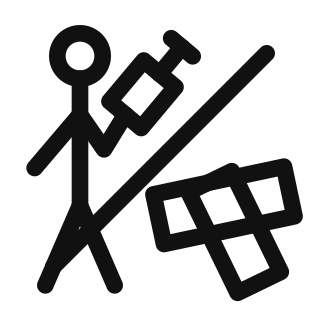
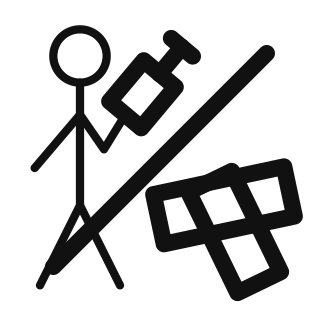
piktogrammene: mennesket får halve streken, tingene beholder sin
Menneskefigurene på «før du begynner»-siden var tegnet i samme 1,25 enheter
som alt annet i ikonsettet. På en strekmann er det for mye: streken ER
kroppen, og hodet gikk nesten igjen i seg selv.

Målt i IKEAs egen anvisning til MYDAL køyeseng (AA-2207941-1, side 2, 600
dpi, kontrollert mot PDF-ens egne w-operatorer): strek 17 px = 2,0 pt,
hodediameter 293 px, figurhøyde 1091 px = 46 mm. Streken er 5,8 % av hodet
- 1:17 - mot vår 1:3,7.

Målingen viser også det motsatte av det man tror: IKEA-mannen har den
tykkeste streken i hele dokumentet bortsett fra nei-krysset, og verktøyene
deres er halvparten av ham. Han leser likevel lett fordi han er en KONTUR
rundt en hvit kropp i 46 mm. Vår er en strekmann i 16 mm. Derfor er det bare
figuren som tynnes her, og verktøy, deler og piler som blir stående.

Hele veien til 1:17 går ikke - 0,22 mm strekmann blir grå, og den gråner
allerede ved 0,4 enheter i de 72 px Markdown-manualen setter ikonet i.
Halve piktogramstreken er det tynneste som er svart i begge medier, og tar
figuren til 1:7,4.

Vekten står ett sted (FIGURE_STROKE). Ikonfila sier bare hva som er figur -
class="figur" på gruppen - og merket i en vendoret Lucide-fil stopper
bygget. De fire figurene er samtidig tegnet om til samme skjelett: hode
r=2, hals som starter på hodets sirkel, skulder i 8,6, bein som spriker 0,5
per enhet. Hodet ble ikke vokst til IKEAs 26,9 % - da spiser det blyanten
bak øret, og den var vanskelig nok å få til å lese.
[…]

Changed region(s): [[0.0625, 0.0938, 0.4062, 0.7812], [0.25, 0.7188, 0.4062, 0.9375], [0.0938, 0.8438, 0.1875, 0.9375]]

diff --git a/prosjekter/hanna/tools/gen_glyphs.py b/prosjekter/hanna/tools/gen_glyphs.py
@@ -67,6 +67,45 @@ ISO_DY = -0.29
 PICTO_SIZE = 24
 PICTO_STROKE = 1.25
 
+# Menneskefiguren er det ene unntaket, og unntaket er målt.
+#
+# MÅLT KILDE: IKEAs egen anvisning til MYDAL køyeseng (AA-2207941-1), side 2,
+# rendret i 600 dpi og målt to veier - perpendikulær strekbredde i pikslene, og
+# etterpå mot PDF-ens egne w-operatorer, som ga samme svar:
+#
+#   strek                17 px  = 0,71 mm = 2,0 pt
+#   hodediameter        293 px  -> streken er 5,8 % av hodet
+#   figurhøyde         1091 px  = 46 mm -> streken er 1,56 % av høyden,
+#                                 hodet 26,9 %, figuren 3,7 hodehøyder
+#
+# Og en advarsel mot å lese for fort: IKEA-mannen har den TYKKESTE streken i
+# hele dokumentet, bortsett fra det store nei-krysset. Verktøyikonene deres er
+# 1,0 pt - halve mannen - og beslagene 0,75 pt. Hierarkiet deres er altså det
+# motsatte av det vi gjør her.
+#
+# Grunnen til at figuren deres likevel ser fin ut i streken, og vår ser tung ut,
+# er ikke vekten: det er at IKEA-mannen er en KONTUR rundt en hvit kropp, tegnet
+# i 46 mm. Streken er kanten, kroppen er papiret, og da kan kanten være tung
+# uten at figuren blir det. Vår er en strekmann i 16 mm: streken ER kroppen, og
+# tykkelsen leser som kroppsmasse. Det tallet som da lar seg flytte over er
+# forholdet inne i figuren - strek mot hode, 1:17 hos dem, 1:3,7 hos oss.
+#
+# Hele veien til 1:17 går ikke: det er 0,27 enheter = 0,22 mm, og en strekmann i
+# 0,22 mm er grå, ikke svart. Prøvd - allerede ved 0,4 enheter gråner hodet og
+# beina når ikonet settes i 72 px, som er det Markdown-manualen setter det i.
+#
+# HALVE piktogramstreken er det tynneste som er svart i begge medier - 0,5 mm på
+# papir i 19 mm, 1,9 px i 72 px - og den tar figuren fra 1:3,7 til 1:7,4.
+#
+# Verktøyene, delene og pilene beholder piktogramstreken, altså stikk i strid
+# med IKEAs rangering. Bevisst: deres rangering følger av en 46 mm silhuett, vår
+# av en 16 mm strekmann. Tegnes figuren en dag om til silhuett, snur den tilbake.
+#
+# Vekten settes her, ikke i ikonfilene; ikonfila sier bare HVA som er figur, med
+# ett merke på gruppen figuren ligger i.
+FIGURE_MARK = 'class="figur"'
+FIGURE_STROKE = PICTO_STROKE / 2
+
 _STOPWORDS = {
     "forsenket", "torx", "varmforsinket", "elforsinket", "etter", "av",
     "bøyd", "boyd", "i", "eller", "og", "med", "for", "til", "pk", "stk",
@@ -1079,6 +1118,12 @@ def icon_path(ref: str) -> str:
     return os.path.join(ICON_ROOT, *ref.split("/")) + ".svg"
 
 
+def _dedent(lines: list[str]) -> list[str]:
+    """Fjerner det felles innrykket, men beholder ikonfilas egen nesting."""
+    pad = min((len(ln) - len(ln.lstrip()) for ln in lines), default=0)
+    return [ln[pad:].rstrip() for ln in lines]
+
+
 def icon_body(ref: str) -> str:
     """Kroppen i en 24x24-ikonfil, uten <svg>-kappen og uten tomme linjer."""
     path = icon_path(ref)
@@ -1091,8 +1136,18 @@ def icon_body(ref: str) -> str:
     if not vb or (float(vb.group(1)), float(vb.group(2))) != (PICTO_SIZE,
                                                              PICTO_SIZE):
         raise ValueError(f"{path} er ikke på {PICTO_SIZE}x{PICTO_SIZE}-rutenettet")
-    return "\n".join(ln.strip() for ln in m.group(1).strip().splitlines()
-                     if ln.strip())
+    body = "\n".join(_dedent([ln for ln in m.group(1).splitlines()
+                              if ln.strip()]))
+    if FIGURE_MARK in body:
+        if not ref.startswith("hanna/"):
+            raise ValueError(f"{path}: figurmerket hører hjemme i hanna/ - en "
+                             "vendoret fil skal ligge som den kom")
+        body = body.replace(FIGURE_MARK,
+                            f'stroke-width="{_f(FIGURE_STROKE)}"')
+    if "class=" in body:
+        raise ValueError(f"{path}: ukjent class-attributt - figurmerket "
+                         f'skrives nøyaktig {FIGURE_MARK}')
+    return body
 
 
 def pictogram_svg(key: str) -> str:

diff --git a/prosjekter/hanna/docs/PRAKSIS.md b/prosjekter/hanna/docs/PRAKSIS.md
@@ -550,14 +550,67 @@ ble avgjort i: `docs/preview/krop-steg1-v3.png` og `krop-steg5-v3.png`.
   høyden sin, så en 6×120 forblir lengre enn en 5×40 også inne i panelet på
   stegsiden. Navnene leses ut av `docs/generated/beslagliste.md`, så en ny
   skruestørrelse i leddtabellen gir et nytt ikon uten at noen rører glyphfila.
-* **Piktogrammene** («før du begynner») er Lucide-baserte, én strektykkelse,
-  ingen fyll, ingen tekst i ikonet. `docs/icons/lucide/` er **vendoret, ikke
+* **Piktogrammene** («før du begynner») er Lucide-baserte, ingen fyll, ingen
+  tekst i ikonet. `docs/icons/lucide/` er **vendoret, ikke
   speilet**: der ligger bare de ikonene `PICTOGRAMS` faktisk slår opp, og
   ingenting annet. Et ikon som ikke står i den tabellen skal ut av katalogen —
   ellers vokser den til et halvt ikonbibliotek som ingen bygger leser og ingen
   lisensfil dekker meningsfullt. (Fem ubrukte ble slettet i denne runden:
   `baby`, `hammer`, `pencil`, `person-standing`, `phone`. `book-open` gikk
   samme vei da «blyanten først» avløste «les steg 0 først»-raden.)
+* **To strektykkelser, og bare to.** `PICTO_STROKE` — 1,25 av 24 enheter — er
+  vekten til alt som er en TING: verktøy, deler, senger, vegger, piler, hake og
+  kryss. Menneskefiguren har sin egen, `FIGURE_STROKE`, som er halvparten.
+  Skillet er ikke at mennesker skal være finere. På en ting er streken en
+  **kant** rundt et volum, og tykkelsen leser som blekk; på en strekmann **er**
+  streken kroppen, og tykkelsen leser som kroppsmasse. Derfor er det bare
+  figuren som tynnes — en tynnere kant hadde bare gjort siden lysere uten å
+  gjøre noe lettere.
+* **Forholdet er målt, ikke gjettet.** Kilde: IKEAs egen anvisning til MYDAL
+  køyeseng, `AA-2207941-1`, side 2, rendret i 600 dpi med `pdftoppm`. Målt to
+  veier — perpendikulær strekbredde i pikslene, og etterpå mot PDF-ens egne
+  `w`-operatorer, som ga samme svar.
+
+  | målt på IKEA-mannen | piksler @600 dpi | forhold |
+  |---|---:|---|
+  | strekbredde | 17 (= 0,71 mm = 2,0 pt) | — |
+  | hodediameter (ytre) | 293 | strek = **5,8 %** av hodet, altså **1:17** |
+  | figurhøyde | 1091 (= 46 mm) | strek = **1,56 %**, hode = **26,9 %**, figuren 3,7 hodehøyder |
+
+  Og en advarsel mot å lese dette for fort: **IKEA-mannen har den tykkeste
+  streken i hele dokumentet**, bortsett fra det store nei-krysset (5,5 pt).
+  Verktøyikonene deres er 1,0 pt — halve mannen — og beslagene i delelisten
+  0,75 pt. Hierarkiet deres er det motsatte av vårt.
+
+  Grunnen til at figuren deres likevel ser fin ut i streken, og vår ser tung ut,
+  er ikke vekten. IKEA-mannen er en **kontur rundt en hvit kropp**, tegnet i
+  46 mm: streken er kanten, kroppen er papiret, og da kan kanten være tung uten
+  at figuren blir det. Vår er en **strekmann i 16 mm** — streken *er* kroppen.
+  Det som da lar seg flytte over er forholdet inne i figuren: strek mot hode,
+  1:17 hos dem, 1:3,7 hos oss.
+
+  Hele veien til 1:17 går ikke: det blir 0,27 enheter = 0,22 mm, og en strekmann
+  i 0,22 mm er grå, ikke svart. Prøven viser at den gråner allerede ved 0,4
+  enheter når ikonet settes i 72 px, som er det Markdown-manualen setter det i.
+  **Halve piktogramstreken** er det tynneste som er svart i begge medier —
+  0,5 mm på papir i 19 mm, 1,9 px i 72 px — og den tar figuren fra 1:3,7 til
+  1:7,4. Verktøyene og tingene beholder piktogramstreken, altså stikk i strid
+  med IKEAs rangering; bevisst, fordi deres rangering følger av en 46 mm
+  silhuett og vår av en 16 mm strekmann. Tegnes figuren om til silhuett en dag,
+  snur den tilbake.
+
+  **Hodet ble stående.** IKEAs hode er 26,9 % av figurhøyden, vårt 22,4 %. Å
+  vokse dit ble prøvd og forkastet: hodet spiser da blyanten bak øret, og
+  blyanten er den ene detaljen på siden som var vanskelig å få til å lese.
+* **Figuren er ett skjelett tegnet fire ganger.** `to-personer`,
+  `en-person-nei`, `blyant-foerst` og `skrutrekker-foerst-nei` deler hode
+  (`r="2"`, ytre diameter 4,6 enheter), hals som starter nøyaktig på hodets
+  sirkel, skulderpunkt i 8,6 og bein som spriker 0,5 til siden per enhet
+  nedover. Bare posituren skiller dem. Ikonfila sier bare **hva** som er figur —
+  `class="figur"` på gruppen figuren ligger i — og `gen_glyphs` bytter merket
+  mot vekten når ikonet settes sammen. Vekten står ett sted, ikke fjorten;
+  merket i en vendoret Lucide-fil stopper bygget, for da er en fil som skulle
+  ligge urørt blitt rørt.
 * **Merkebokstavene** er ett tegn i en sirkel, samme radius overalt.
 * **De kodede glyfene.** Der et steg koder festemidlene sine, skrives
   skrueglyfen også i sin egen fyllkode (`treskrue-5x70-hatch.svg`), og det er
